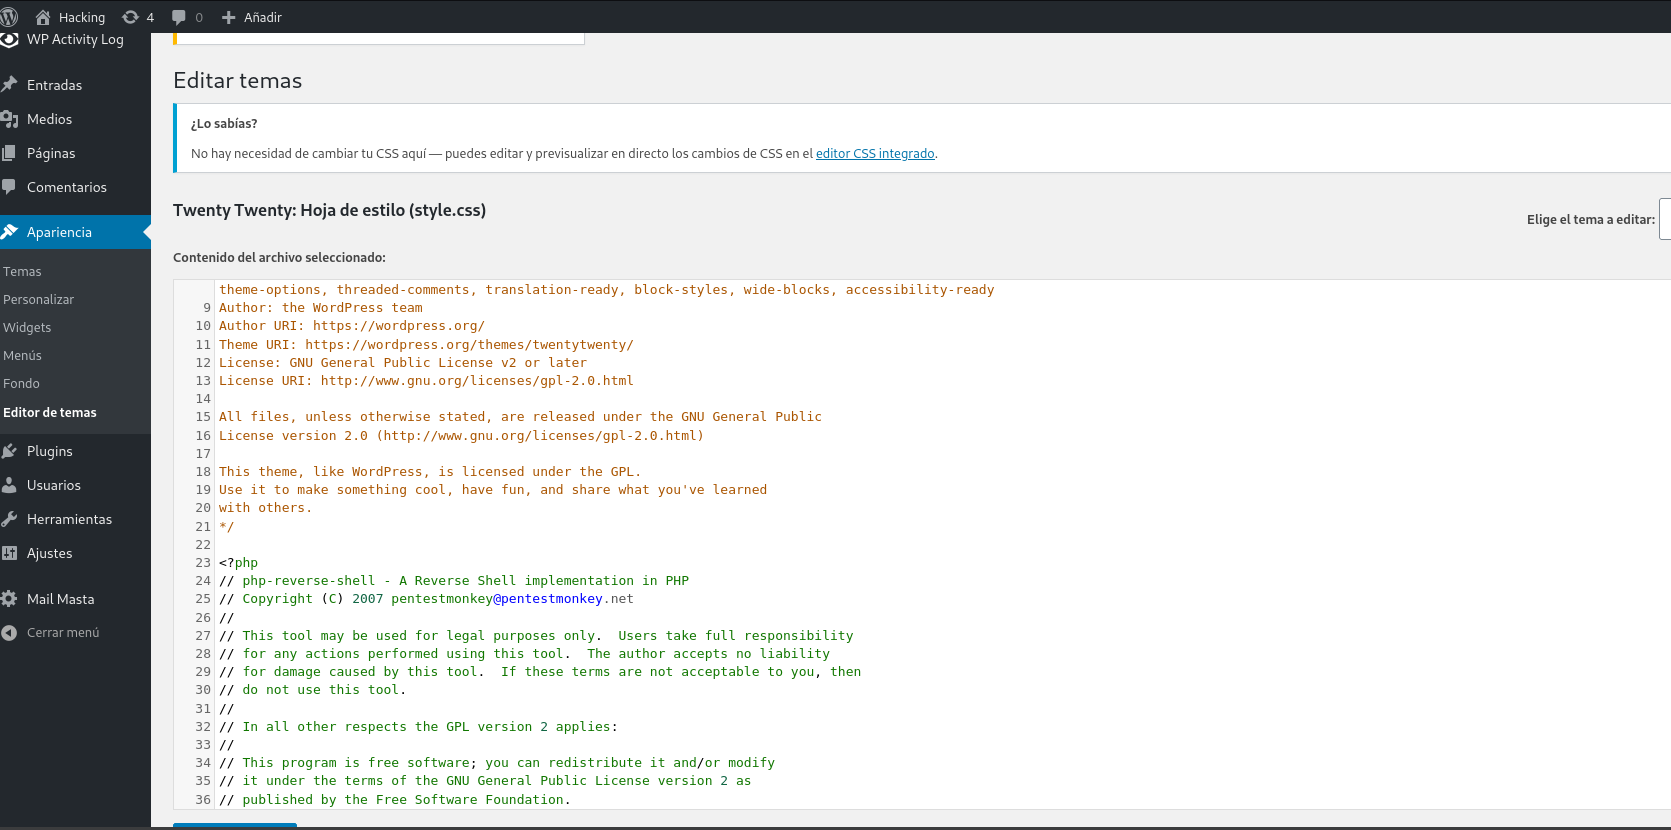
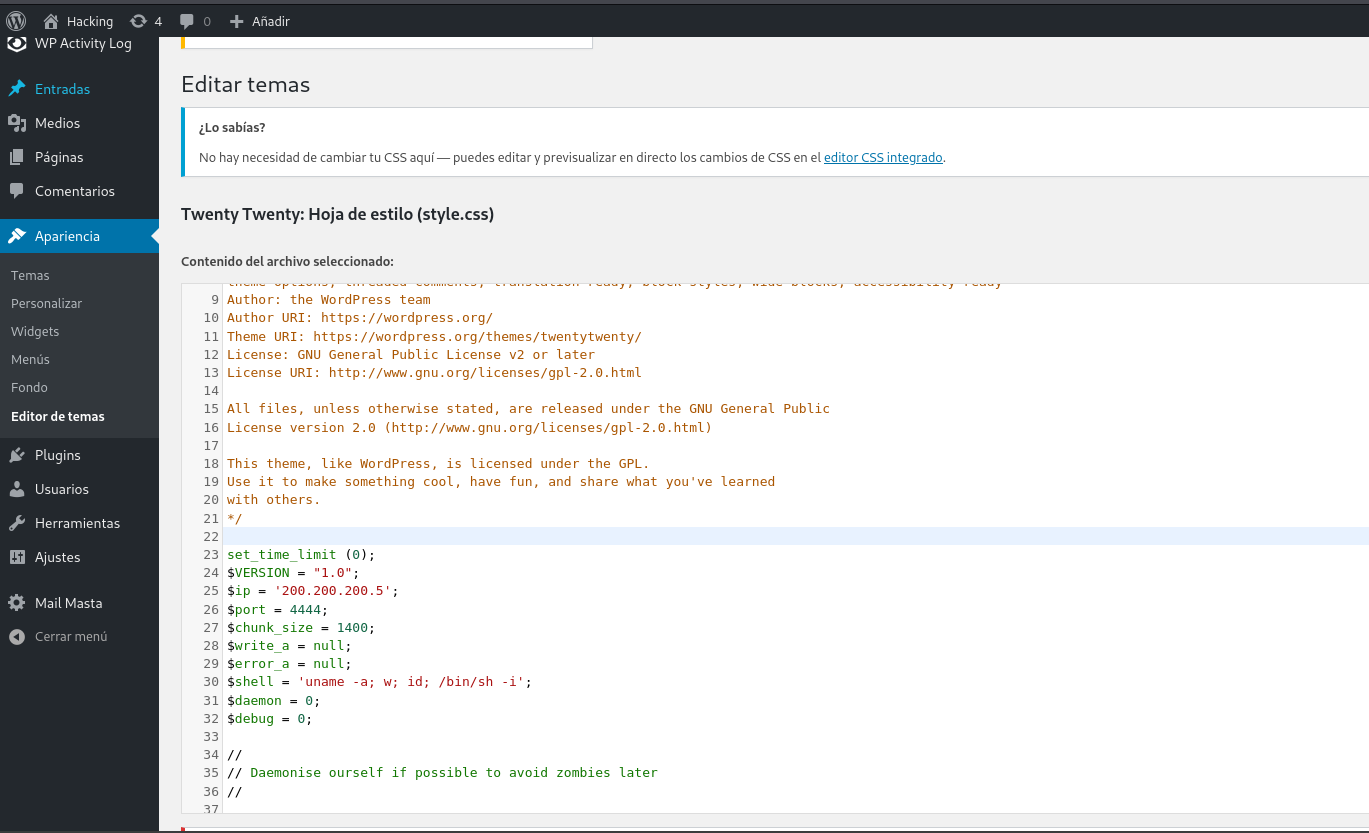
.

Changed region(s): [[0.0, 0.0, 1.0, 1.0], [0.9204, 0.241, 1.0, 0.2711]]

diff --git a/Documentos/Grupo 4/Grupo_4_A08.md b/Documentos/Grupo 4/Grupo_4_A08.md
@@ -108,6 +108,8 @@ Ya estamos dentro del panel de administración de Wordpress, veamos que podemos 
 
 Podemos aprovechar el editor de los temas de Wordpress para meter el código de una [Reverse Shell](https://github.com/pentestmonkey/php-reverse-shell/blob/master/php-reverse-shell.php)
 
+La reverse shell apunta hacia a IP de nuestra máquina atacante **200.200.200.5** por el puerto **4444**.
+
 <br>
 <h1 name="Flag1">3. Flag user.txt</h1>
 
